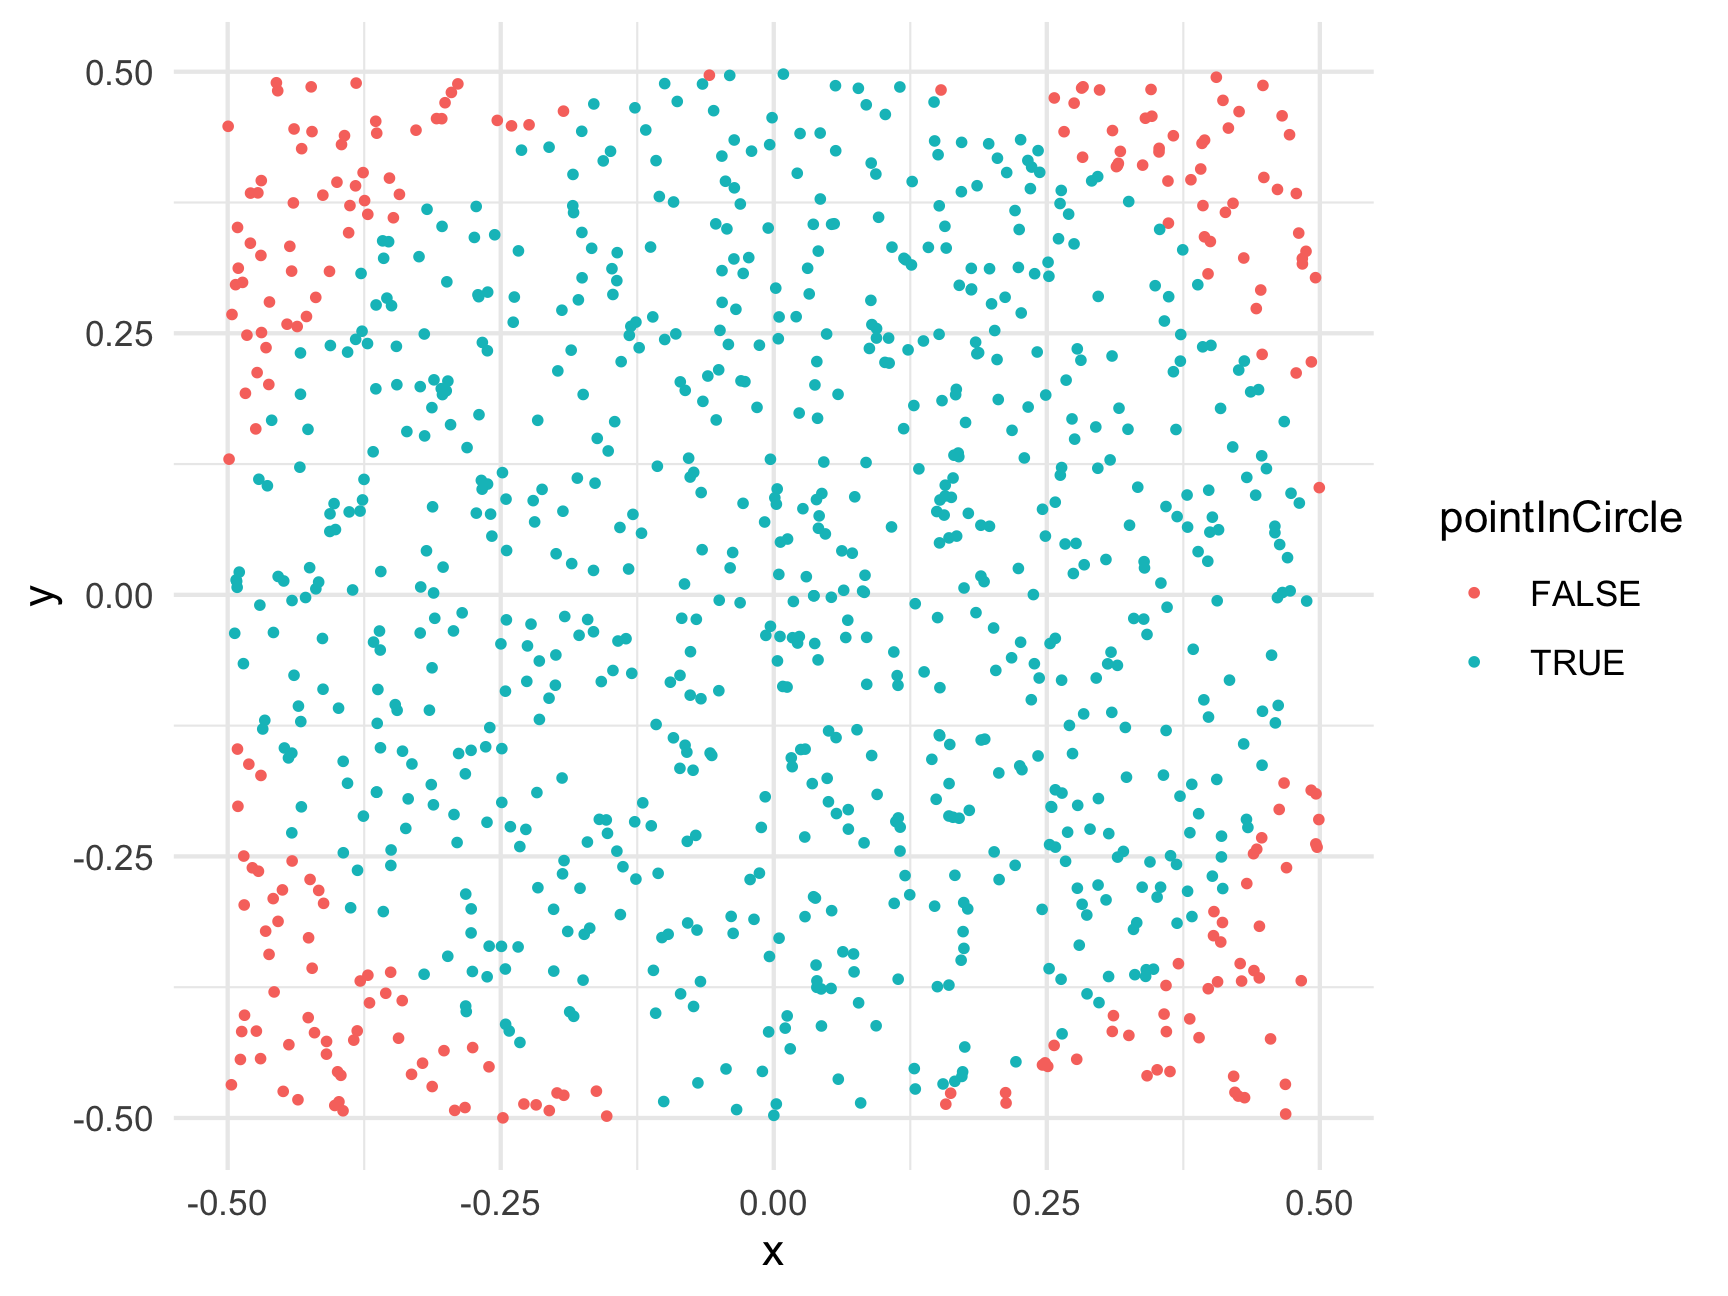
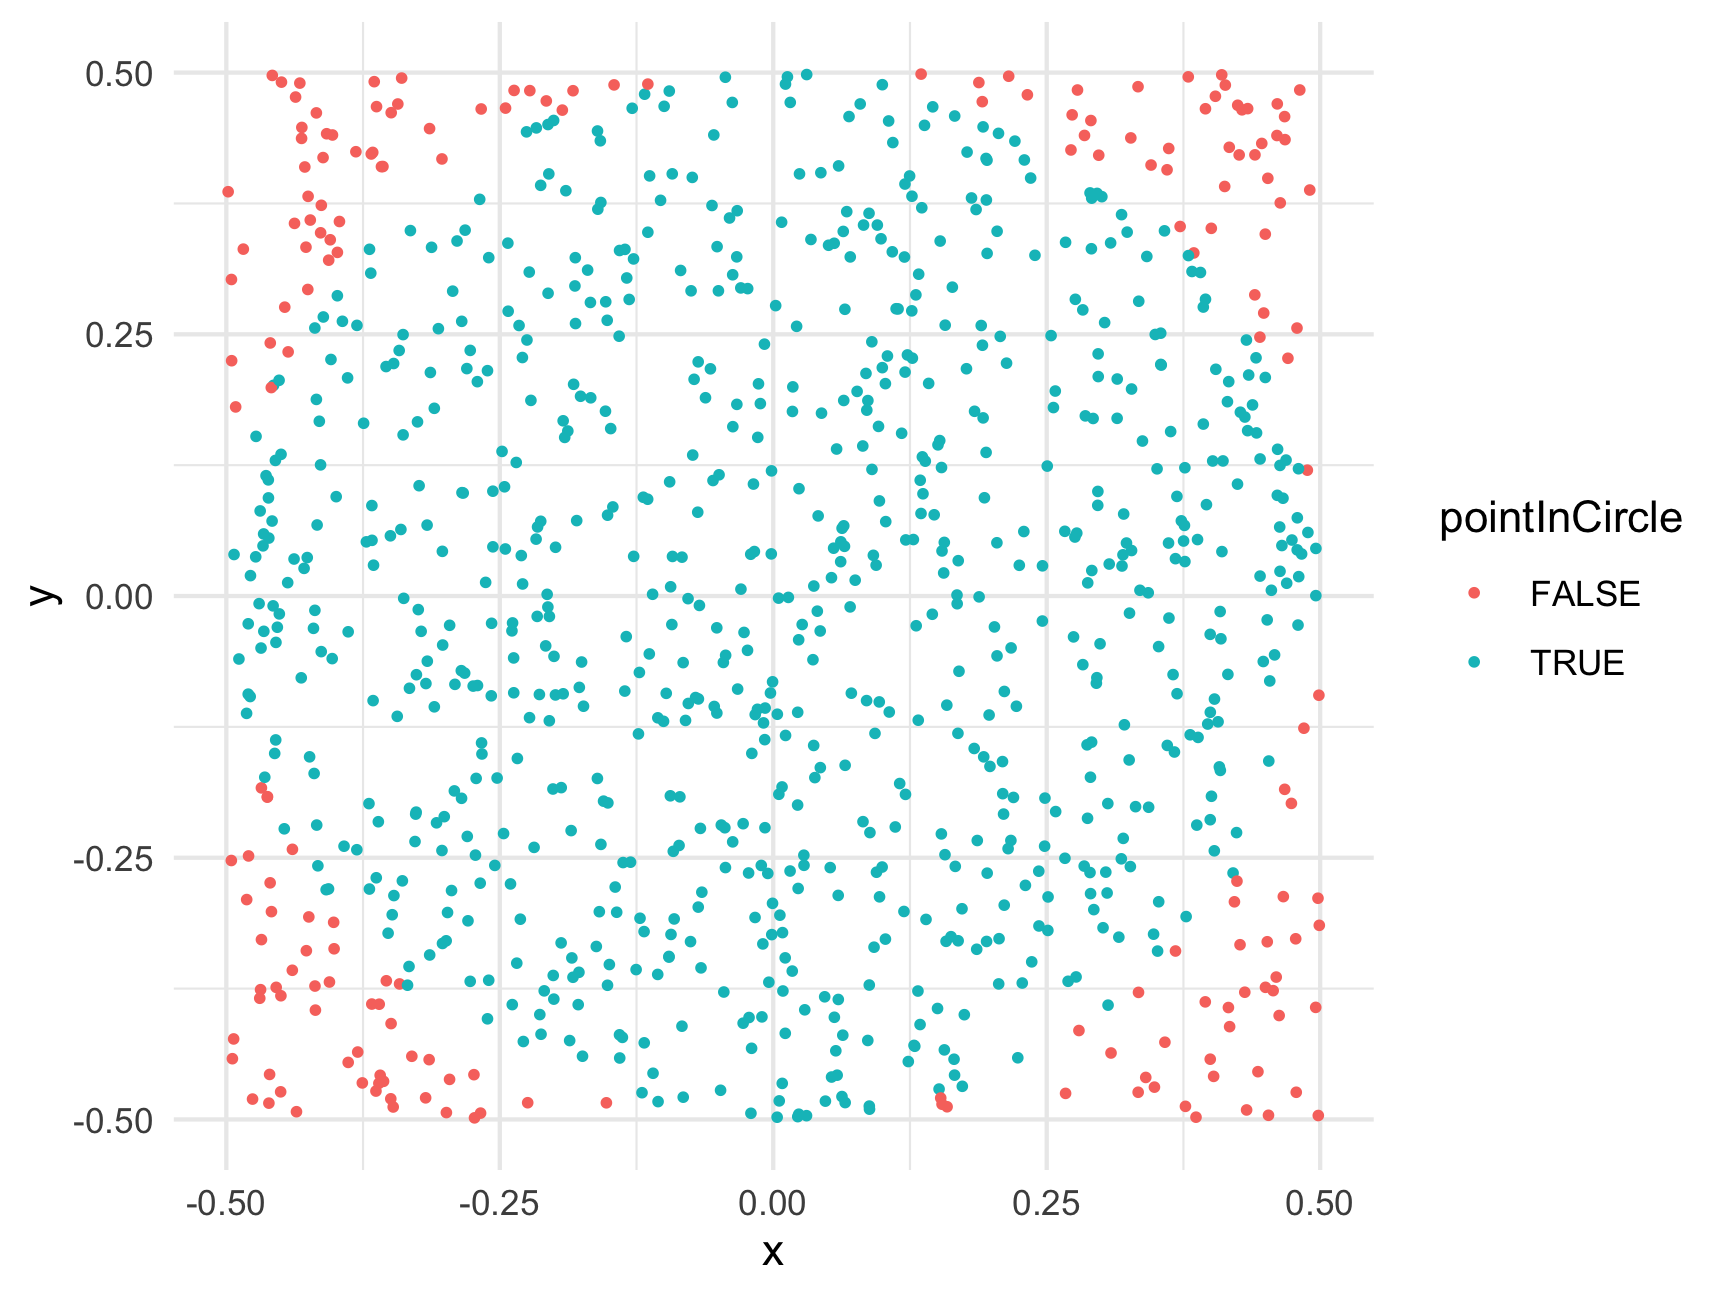
Deploying to gh-pages from  @ 0c62c52289f92745965ef04a43ac25dc9409586d 🚀

diff --git a/hw1-getting-started.html b/hw1-getting-started.html
@@ -617,7 +617,115 @@ $(document).ready(function () {
 </div>
 
 
-<p>Coming soon!</p>
+<blockquote>
+<p><strong>Due</strong>: January 19 by 11:59pm</p>
+<p><strong>Submit</strong>: To submit this assignment, create a zip file of all the files in your R project folder for this assignment. Name the zip file “hw1-netID.zip”, replacing “netID” with your netID (e.g., “hw1-jph.zip”). Use <a href="https://u.pcloud.com/#page=puplink&amp;code=7VYkZwH5KGzcgqRhFOMfHFFkIsjDuB8Iy">this link</a> to submit your file.</p>
+<p><strong>Weight</strong>: This assignment is worth 5% of your final grade.</p>
+<p><strong>Purpose</strong>: The purposes of this assignment are to:</p>
+<ul>
+<li>Make sure you understand what you need to do to succeed in this class</li>
+<li>Make sure you have properly set up the software and tools we will use this semester</li>
+<li>Get started practicing basic concepts with R.</li>
+</ul>
+<p><strong>Skills &amp; Knowledge</strong>: After completing these exercises, you should:</p>
+<ul>
+<li>Be familiar with the main course tools: Slack, R, and RStudio.</li>
+<li>Be familiar how to use R projects to stay organized.</li>
+<li>Be able to use R to create and store values as objects with meaningful names.</li>
+<li>Know how to compare values in R.</li>
+<li>Know how to use arithmetic, relational, and logical operators in R.</li>
+<li>Know the distinctions between how R handles different types of data types (numbers, strings, &amp; logicals).</li>
+</ul>
+<p><strong>Assessment</strong>: Each question indicates the % of the assignment grade, summing to 100%. The credit for each question will be assigned as follows:</p>
+<ul>
+<li>0% for not attempting a response.</li>
+<li>50% for attempting the question but with <em>major</em> errors.</li>
+<li>75% for attempting the question but with <em>minor</em> errors.</li>
+<li>100% for correctly answering the question.</li>
+</ul>
+<p>The reflection portion is always worth 10% and graded for completion.</p>
+<p><strong>Rules</strong>:</p>
+<ul>
+<li>Problems marked <strong>SOLO</strong> may not be worked on with other classmates, though you may consult instructors for help.</li>
+<li>For problems marked <strong>COLLABORATIVE</strong>, you may work in groups of up to 3 students who are in this course this semester. You may not split up the work – everyone must work on every problem. And you may not simply copy any code but rather truly work together and submit your own solutions.</li>
+</ul>
+</blockquote>
+<div id="class-setup-solo-10" class="section level3">
+<h3>1) Class setup [SOLO, 10%]</h3>
+<p>For this class, you’ll need to install some software and register for some tools. You should have already done this, but in case you haven’t,go to the <a href="ref-course-software.html">course software</a> page to get setup.</p>
+<p>Once you have joined the <a href="https://emse-p4a-s22.slack.com">class slack</a>, make a post to the <code>#welcome</code> channel introducing yourself - provide your name, year / program, and something interesting about yourself.</p>
+</div>
+<div id="getting-familiar-with-the-course-solo-10" class="section level3">
+<h3>2) Getting familiar with the course [SOLO, 10%]</h3>
+<p>Follow <a href="https://www.youtube.com/watch?v=Tnlaokj1opA">Snoop’s advice</a> and read the entire <a href="syllabus.html">Course Syllabus</a> (actually read the whole thing). Then review the <a href="schedule.html">schedule</a> and make sure to note important upcoming deadlines.</p>
+</div>
+<div id="staying-organized-solo-10" class="section level3">
+<h3>3) Staying organized [SOLO, 10%]</h3>
+<p>Open RStudio and create a new R project called “hw1” (see the <a href="r1.1-getting-started.html#RStudio_projects">reading</a> for details on how to do this). Within your project, create a new R <em>script</em> (a “.R” file) and save it as “hw1-netID.R”, replacing “netID” with your netID (e.g., “hw1-jph.R”). When you save it, it should show up in the R project folder you just created. Finally, copy the following code to the top of this script and fill out your name, netID, and the names of anyone you worked with on this assignment (your netID is the part of your email address before <code>"@gwu.edu"</code>):</p>
+<pre class="r"><code># Name:  Last, First
+# netID: Insert your netID here
+
+# I worked with the following classmates on this assignment:
+# 1) Name: Last, First
+# 2) Name: Last, First</code></pre>
+<p>Write your responses to all other questions in this assignment in your R file.</p>
+</div>
+<div id="objects-operators-converting-time-collaborative-20" class="section level3">
+<h3>4) Objects &amp; Operators: Converting Time [COLLABORATIVE, 20%]</h3>
+<p>Create objects to store each of the following two values - be sure to use <a href="r1.1-getting-started.html#Use_meaningful_variable_names">meaningful variable names</a> when creating your objects:</p>
+<ul>
+<li>The number of seconds in a minute</li>
+<li>The number of minutes in an hour</li>
+<li>The number of hours in a day</li>
+<li>The number of days in a typical year (not a leap year)</li>
+</ul>
+<p>Now, say you have another object called <code>time_in_seconds</code> that contains an integer number of seconds (for example, <code>time_in_seconds &lt;- 8675309</code>). Write code to convert the value stored in <code>time_in_seconds</code> into the units described below. Your solution may only use arithmetic operators and the objects you created (i.e. you may <strong>not</strong> use any numbers). You may also use the new objects you create in sequential order. For example, you may use the object created in part a) to create the object in part b), and so on.</p>
+<ol style="list-style-type: lower-alpha">
+<li>The value of <code>time_in_seconds</code> in minutes</li>
+<li>The value of <code>time_in_seconds</code> in hours</li>
+<li>The value of <code>time_in_seconds</code> in days</li>
+<li>The value of <code>time_in_seconds</code> in years</li>
+</ol>
+</div>
+<div id="logical-and-relational-operators-solo-20" class="section level3">
+<h3>5) Logical and relational operators [SOLO, 20%]</h3>
+<p>Consider the following objects:</p>
+<pre class="r"><code>w &lt;- FALSE
+x &lt;- TRUE
+y &lt;- FALSE
+z &lt;- TRUE</code></pre>
+<p>Write code to answer the following questions:</p>
+<ol style="list-style-type: lower-alpha">
+<li>Write a statement with <em>logical</em> operators that compares the objects <code>x</code>, <code>y</code>, and <code>z</code> and returns <code>TRUE</code></li>
+<li>Write a statement with <em>logical</em> operators that compares the objects <code>x</code>, <code>y</code>, and <code>z</code> and returns <code>FALSE</code></li>
+<li>Fill in <em>relational</em> operators to make the following statement return <code>TRUE</code>:</li>
+</ol>
+<p><code>! (x __ y) &amp; ! (z __ y)</code></p>
+<ol start="4" style="list-style-type: lower-alpha">
+<li>Fill in <em>relational</em> operators to make this statement return <code>FALSE</code>:</li>
+</ol>
+<p><code>! (w __ y) | (z __ y)</code></p>
+</div>
+<div id="data-types-collaborative-20" class="section level3">
+<h3>6) Data types [COLLABORATIVE, 20%]</h3>
+<p>Consider the following objects:</p>
+<pre class="r"><code>number    &lt;- typeof(&#39;3&#39;)
+character &lt;- typeof(7)
+false     &lt;- typeof(&quot;FALSE&quot;)
+true      &lt;- typeof(TRUE)</code></pre>
+<p>Write code to answer the following questions:</p>
+<ol style="list-style-type: lower-alpha">
+<li>Write a statement with both <em>relational</em> &amp; <em>logical</em> operators that compares the four objects <code>number</code>, <code>character</code>, <code>false</code>, and <code>true</code> and returns <code>TRUE</code>.</li>
+<li>Write a statement with both <em>relational</em> &amp; <em>logical</em> operators that compares the four objects <code>number</code>, <code>character</code>, <code>false</code>, and <code>true</code> and returns <code>FALSE</code>.</li>
+</ol>
+</div>
+<div id="read-and-reflect-solo-10" class="section level3">
+<h3>8) Read and reflect [SOLO, 10%]</h3>
+<p>Read and reflect on next week’s readings on <a href="r2-functions-packages.html">functions &amp; packages</a>. Afterwards, in a comment (<code>#</code>) in your R file, write a short reflection on what you’ve learned and any questions or points of confusion you have about what we’ve covered thus far. This can just few a few sentences related to this assignment, next week’s readings, things going on in the world that remind you something from class, etc. If there’s anything that jumped out at you, write it down.</p>
+<blockquote>
+<p>In case you missed them, instructions for how to submit your assignment are at the <a href="hw1-getting-started.html">top of this page</a>.</p>
+</blockquote>
+</div>
 
 <hr>
 

diff --git a/r13-monte-carlo-methods.html b/r13-monte-carlo-methods.html
@@ -766,11 +766,11 @@ ratio &lt;- sum(belowCurve) / numTrials
 totalArea &lt;- (7 - 3) * 7^2 # Rectangle length x height = 196
 areaUnderCurve &lt;- ratio * totalArea
 areaUnderCurve</code></pre>
-<pre><code>#&gt; [1] 105.446</code></pre>
-<p>So, using Monte Carlo simulation with 100,000 points, we estimate that the area under the curve is 105.44604. How’d we do? Well, if you’re familiar with calculus, the integral of <span class="math inline">\(f(x) = x^2\)</span> has a closed-form solution (<span class="math inline">\(\frac{x^3}{3} + C\)</span>), so we can check our estimate against the pure-math solution:</p>
+<pre><code>#&gt; [1] 105.1442</code></pre>
+<p>So, using Monte Carlo simulation with 100,000 points, we estimate that the area under the curve is 105.1442. How’d we do? Well, if you’re familiar with calculus, the integral of <span class="math inline">\(f(x) = x^2\)</span> has a closed-form solution (<span class="math inline">\(\frac{x^3}{3} + C\)</span>), so we can check our estimate against the pure-math solution:</p>
 <p><span class="math display">\[\int_{3}^{7} x^2 \mathrm{dx} = \left ( \frac{x^3}{3} \right ) \Big|_3^7 = \frac{7^3}{3} - \frac{3^3}{3} = 105.33\bar{3}\]</span></p>
-<p>So our estimate error is: <code>105.333 -</code> <code>105.44604</code> <code>=</code> <code>-0.1127067</code>.</p>
-<p>That’s an error of just 0.11 % - not bad!</p>
+<p>So our estimate error is: <code>105.333 -</code> <code>105.1442</code> <code>=</code> <code>0.1891333</code>.</p>
+<p>That’s an error of just 0.18 % - not bad!</p>
 <hr />
 </div>
 <div id="monte-carlo-pi" class="section level1">
@@ -801,12 +801,12 @@ points &lt;- data.frame(
     y = runif(numTrials, -0.5, 0.5))
 head(points)</code></pre>
 <pre><code>#&gt;             x           y
-#&gt; 1 -0.48559477 -0.06576981
-#&gt; 2 -0.48835490 -0.44408138
-#&gt; 3 -0.26002462 -0.12685139
-#&gt; 4 -0.17569521  0.34637616
-#&gt; 5 -0.04155958  0.23934023
-#&gt; 6 -0.05675924 -0.15349211</code></pre>
+#&gt; 1 -0.02213649 -0.40262319
+#&gt; 2  0.27684035 -0.36387295
+#&gt; 3  0.34847722 -0.46913663
+#&gt; 4 -0.45993756 -0.27396993
+#&gt; 5 -0.21257396  0.07140523
+#&gt; 6 -0.05156667 -0.11178599</code></pre>
 <p>For this example, we’re putting the points in a data frame to make it easier to work with. Now that we have random x and y points, let’s compute the radius to each point (the distance from <code>(x, y) = (0, 0)</code>) so we can determine which points fall inside the circle (which has a radius of 0.5):</p>
 <pre class="r"><code>library(dplyr)
 points &lt;- points %&gt;%
@@ -823,9 +823,9 @@ ggplot(points) +
 <pre class="r"><code>ratio &lt;- sum(points$pointInCircle) / nrow(points)
 piApprox &lt;- 4 * ratio
 piApprox</code></pre>
-<pre><code>#&gt; [1] 3.08</code></pre>
-<p>So our estimate error is: <code>3.1415 -</code> <code>3.08</code> <code>=</code> <code>-0.0615927</code>.</p>
-<p>That’s an error of just 1.96 % - not bad for only 1,000 points!</p>
+<pre><code>#&gt; [1] 3.224</code></pre>
+<p>So our estimate error is: <code>3.1415 -</code> <code>3.224</code> <code>=</code> <code>0.0824073</code>.</p>
+<p>That’s an error of just 2.62 % - not bad for only 1,000 points!</p>
 <p>To get an even better estimate of <span class="math inline">\(\pi\)</span>, we can increase N. Let’s see what we get with 100,000 trials:</p>
 <pre class="r"><code>numTrials &lt;- 100000
 points &lt;- data.frame(
@@ -837,13 +837,13 @@ points &lt;- data.frame(
 ratio &lt;- sum(points$pointInCircle) / nrow(points)
 piApprox &lt;- 4 * ratio
 piApprox</code></pre>
-<pre><code>#&gt; [1] 3.13936</code></pre>
+<pre><code>#&gt; [1] 3.14204</code></pre>
 <pre class="r"><code># Compute error:
 error &lt;- piApprox - pi
 percentError &lt;- round(100*abs(error / pi), 2)
 percentError</code></pre>
-<pre><code>#&gt; [1] 0.07</code></pre>
-<p>By increasing the number of trials from 1,000 to 100,000, we improved our estimate error from 1.96 % to 0.07 %!</p>
+<pre><code>#&gt; [1] 0.01</code></pre>
+<p>By increasing the number of trials from 1,000 to 100,000, we improved our estimate error from 2.62 % to 0.01 %!</p>
 <hr />
 <p><strong>Page sources</strong>:</p>
 <p>Some content on this page has been modified from other courses, including:</p>

diff --git a/r2-functions-packages.html b/r2-functions-packages.html
@@ -724,7 +724,7 @@ div.tocify {
 <p>Here the letters <code>sqrt</code> are short for “square root,” and the value inside the <code>()</code> is the “argument” to the function. In the example above, the value <code>225</code> is the “argument”.</p>
 <p>Keep in mind that not all functions have (or require) arguments:</p>
 <pre class="r"><code>date() # Returns the current date and time</code></pre>
-<pre><code>#&gt; [1] &quot;Tue Jan 11 13:55:25 2022&quot;</code></pre>
+<pre><code>#&gt; [1] &quot;Tue Jan 11 14:37:48 2022&quot;</code></pre>
 <p>(the date above is the date this page was last built)</p>
 <div id="multiple-arguments" class="section level2">
 <h2>Multiple arguments</h2>
@@ -942,9 +942,9 @@ library(packagename)   # This also works</code></pre>
 <p>Now that you have the package installed on your computer, try loading it using <code>library(wikifacts)</code>, then trying using some of it’s functions:</p>
 <pre class="r"><code>library(wikifacts) # Load the library</code></pre>
 <pre class="r"><code>wiki_randomfact()</code></pre>
-<pre><code>#&gt; [1] &quot;Did you know that on May 28 in 1588 – Anglo-Spanish War: The Spanish Armada (pictured), with 130 ships and over 30,000 men, set sail from Lisbon for the English Channel in an attempt to invade England. (Courtesy of Wikipedia)&quot;</code></pre>
+<pre><code>#&gt; [1] &quot;Did you know that on April 16 in 1963 – In response to an open letter written by white clergymen, Martin Luther King Jr. wrote the Letter from Birmingham Jail in defence of the strategy of nonviolent resistance against racism. (Courtesy of Wikipedia)&quot;</code></pre>
 <pre class="r"><code>wiki_didyouknow()</code></pre>
-<pre><code>#&gt; [1] &quot;Did you know that endometriosis, a condition in which tissue from the womb occurs in unusual locations, can cause bleeding into the chest during menstrual periods? (Courtesy of Wikipedia)&quot;</code></pre>
+<pre><code>#&gt; [1] &quot;Did you know that Michelle Obama promised George W. Bush that she would rescue his presidential portrait from a fire? (Courtesy of Wikipedia)&quot;</code></pre>
 <p>In case you’re wondering, the only thing this package does is generate messages containing random facts from <a href="https://www.wikipedia.org/">Wikipedia</a>.</p>
 </div>
 <div id="using-only-some-package-functions" class="section level2">
@@ -955,7 +955,7 @@ library(packagename)   # This also works</code></pre>
 </blockquote>
 <p>Here I use the name of the <em>package</em> followed by <code>::</code> to tell R that I’m looking for a function that is in that package. For example, if I didn’t want to load the whole <strong>wikifacts</strong> library but still wanted to use the <code>wiki_randomfact()</code> function, I could do this:</p>
 <pre class="r"><code>wikifacts::wiki_randomfact()</code></pre>
-<pre><code>#&gt; [1] &quot;Did you know that on January 14 in 1960 – The Reserve Bank of Australia, the country&#39;s central bank and banknote-issuing authority, was established. (Courtesy of Wikipedia)&quot;</code></pre>
+<pre><code>#&gt; [1] &quot;Did you know that the Australian Aboriginal community of Ali Curung is named after a nearby ancestral Dingo Dreaming site? (Courtesy of Wikipedia)&quot;</code></pre>
 <p>Where this is particularly handy is when two packages have a function with the same name. If you load both library, R might not know which function to use. In those cases, it’s best to also provide the <strong>package</strong> name. For example, let’s say there was a package called <strong>apples</strong> and another called <strong>bananas</strong>, and each had a function named <code>fruitName()</code>. If I wanted to use each of them in my code, I would need to specify the package names like this:</p>
 <pre class="r"><code>apples::fruitName()
 bananas::fruitName()</code></pre>
